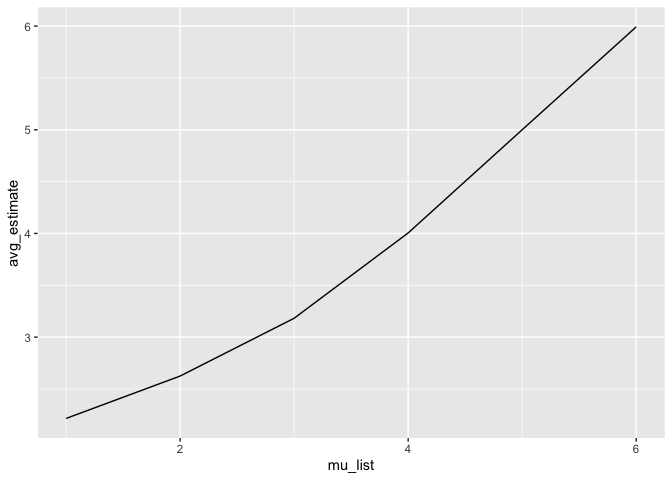
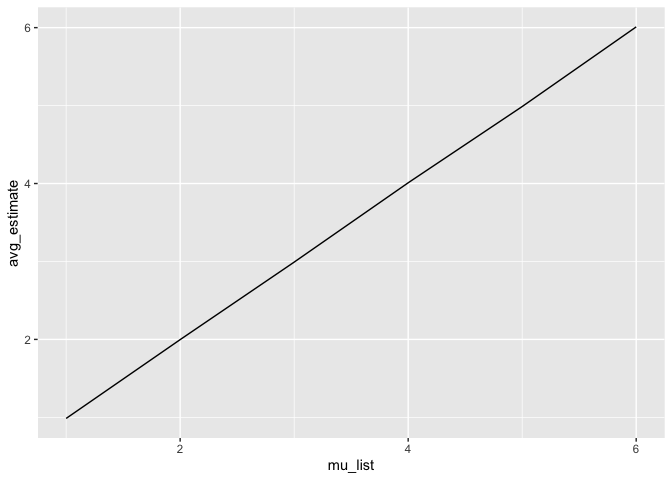
reviewing code and making last minute edits

diff --git a/p8105_hw5_co2616.md b/p8105_hw5_co2616.md
@@ -20,7 +20,6 @@ library(tidyverse)
     ## ℹ Use the conflicted package (<http://conflicted.r-lib.org/>) to force all conflicts to become errors
 
 ``` r
-library(broom)
 library(httr)
 ```
 
@@ -88,12 +87,6 @@ null_df = function(n, mu = 0, sigma = 5) {
   tibble(
     x = rnorm(n = n, mean = mu, sd = sigma)
     )
-
- sim_df %>% 
-    summarize(
-       estimate = pull(tidy(t.test(x)), estimate),
-       p_val = pull(tidy(t.test(x)), p.value)
-    ) 
 }
 ```
 
@@ -104,10 +97,15 @@ sim_results_df =
     iter = 1:5000
   ) %>%  
   mutate(
-    estimate_df = map(sample_size, null_df)
+    sample = map(sample_size, null_df),
+    test = map(sample, t.test),
+    tidy = map(test, broom::tidy)
   ) %>%  
-  unnest(estimate_df)
+  unnest(tidy) %>% 
+  select(iter, sample_size, estimate, p.value)
 ```
+
+**Repeating the above for 𝜇={1,2,3,4,5,6}**
 
 ``` r
 new_null_df = function(n, mu, sigma = 5) {
@@ -116,17 +114,8 @@ new_null_df = function(n, mu, sigma = 5) {
   tibble(
     x = rnorm(n = n, mean = mu, sd = sigma)
     )
- 
- new_sim_df %>% 
-    summarize(
-       new_estimate = pull(tidy(t.test(x)), estimate),
-       new_p_val = pull(tidy(t.test(x)), p.value)
-    ) 
-
 }
 ```
-
-**Repeating the above for 𝜇={1,2,3,4,5,6}**
 
 ``` r
 new_sim_results_df = 
@@ -136,49 +125,36 @@ new_sim_results_df =
     iter = 1:5000
   ) %>%  
   mutate(
-    new_estimate_df = map2(sample_size, mu_list, new_null_df)
+    new_sample = map2(sample_size, mu_list, new_null_df),
+    new_test = map(new_sample, t.test),
+    new_tidy = map(new_test, broom::tidy)
   ) %>%  
-  unnest(new_estimate_df)
-
-new_sim_results_df
+  unnest(new_tidy) %>% 
+  select(iter, sample_size, mu_list, estimate, p.value)
 ```
-
-    ## # A tibble: 30,000 × 5
-    ##    sample_size mu_list  iter new_estimate new_p_val
-    ##          <dbl>   <dbl> <int>        <dbl>     <dbl>
-    ##  1          30       1     1       0.757     0.451 
-    ##  2          30       1     2       1.03      0.363 
-    ##  3          30       1     3       1.24      0.261 
-    ##  4          30       1     4       1.12      0.301 
-    ##  5          30       1     5       0.462     0.618 
-    ##  6          30       1     6       1.04      0.256 
-    ##  7          30       1     7       1.26      0.221 
-    ##  8          30       1     8       0.992     0.269 
-    ##  9          30       1     9       0.0119    0.989 
-    ## 10          30       1    10       1.69      0.0409
-    ## # ℹ 29,990 more rows
 
 ``` r
 new_sim_results_df %>%
   group_by(mu_list) %>%
   summarize(
-    power = mean(new_p_val < 0.05)
+    power = mean(p.value < 0.05)
   ) %>% 
   ggplot(aes(x = mu_list, y = power)) +
   geom_line()
 ```
 
-![](p8105_hw5_co2616_files/figure-gfm/unnamed-chunk-9-1.png)<!-- -->
+![](p8105_hw5_co2616_files/figure-gfm/unnamed-chunk-9-1.png)<!-- --> As
+effect size increases, the power increases and when the true mean is 4,
+you are reaching max power.
 
-As effect size increases, the power increases and when the true mean is
-4, you have reached max power.
+A plot showing the average estimate of 𝜇̂ on the y axis and the true
+value of 𝜇 on the x axis.
 
 ``` r
 new_sim_results_df %>%
   group_by(mu_list) %>%
-  filter(new_p_val < 0.05) %>% 
   summarize(
-    avg_estimate = mean(new_estimate)
+    avg_estimate = mean(estimate)
   ) %>% 
   ggplot(aes(x = mu_list, y = avg_estimate)) +
   geom_line()
@@ -186,9 +162,24 @@ new_sim_results_df %>%
 
 ![](p8105_hw5_co2616_files/figure-gfm/unnamed-chunk-10-1.png)<!-- -->
 
-Overall the no; however, as the effect size increases, the sample
-average of 𝜇̂ across tests for which the null is rejected approximately
-is equal to the true value of 𝜇 because power increases.
+A plot showing the average estimate of 𝜇̂ only in samples for which the
+null was rejected on the y axis and the true value of 𝜇 on the x axis.
+
+``` r
+new_sim_results_df %>%
+  group_by(mu_list) %>%
+  filter(p.value < 0.05) %>% 
+  summarize(
+    avg_estimate = mean(estimate)
+  ) %>% 
+  ggplot(aes(x = mu_list, y = avg_estimate)) +
+  geom_line()
+```
+
+![](p8105_hw5_co2616_files/figure-gfm/unnamed-chunk-11-1.png)<!-- -->
+Overall no. However, as the effect size increases, the sample average of
+𝜇̂ across tests for which the null is rejected approximately is equal to
+the true value of 𝜇 because power increases.
 
 ## Problem 3
 
@@ -220,6 +211,11 @@ victim of the homicide, `city` which shows the city in which the
 homicide occurred, and `dispostion` which tells us the outcome of the
 homicide.
 
+**Baltimore, MD**
+
+Running a `prop.test` for Baltimore, MD in my dataset and extracting
+both the proportion of unsolved homicides and the confidence interval.
+
 ``` r
 baltimore = 
   homicide_df %>%
@@ -238,6 +234,11 @@ baltimore_test %>%
     ##      <dbl>    <dbl>     <dbl>
     ## 1    0.592    0.573     0.610
 
+**All Cities**
+
+Setting up a function to run a `prop.test` for each of the cities in my
+dataset.
+
 ``` r
 city_test = function(x, n) {
   
@@ -245,6 +246,10 @@ city_test = function(x, n) {
 
 }
 ```
+
+Running a `prop.test` for each of the cities in my dataset and
+extracting both the proportion of unsolved homicides and the confidence
+interval for each.
 
 ``` r
 homicide_df_results = 
@@ -282,10 +287,12 @@ homicide_df_results
     ## 10 Cincinnati, OH     0.375    0.339     0.412
     ## # ℹ 41 more rows
 
+plotting results
+
 ``` r
 homicide_df_results %>%
   mutate(
-    city_sate = fct_reorder(city_state, estimate)
+    city_state = fct_reorder(city_state, estimate)
   ) %>% 
   ggplot(aes(x = city_state, y = estimate)) +
   geom_point() +
@@ -293,4 +300,4 @@ homicide_df_results %>%
   theme(axis.text.x = element_text(angle = 90, hjust = 1, vjust = 1))
 ```
 
-![](p8105_hw5_co2616_files/figure-gfm/unnamed-chunk-15-1.png)<!-- -->
+![](p8105_hw5_co2616_files/figure-gfm/unnamed-chunk-16-1.png)<!-- -->
